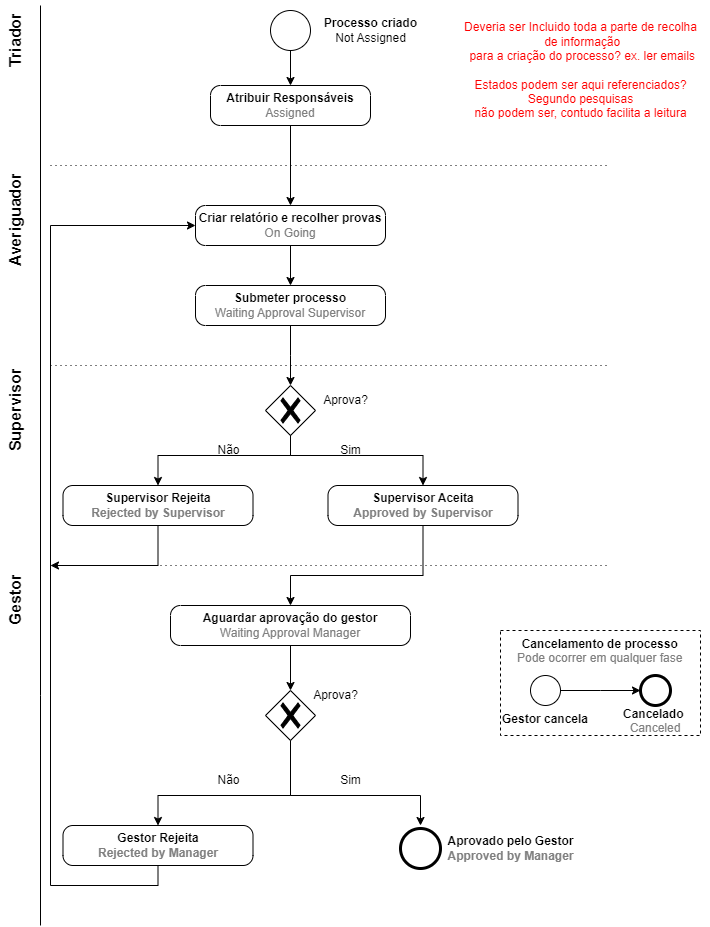
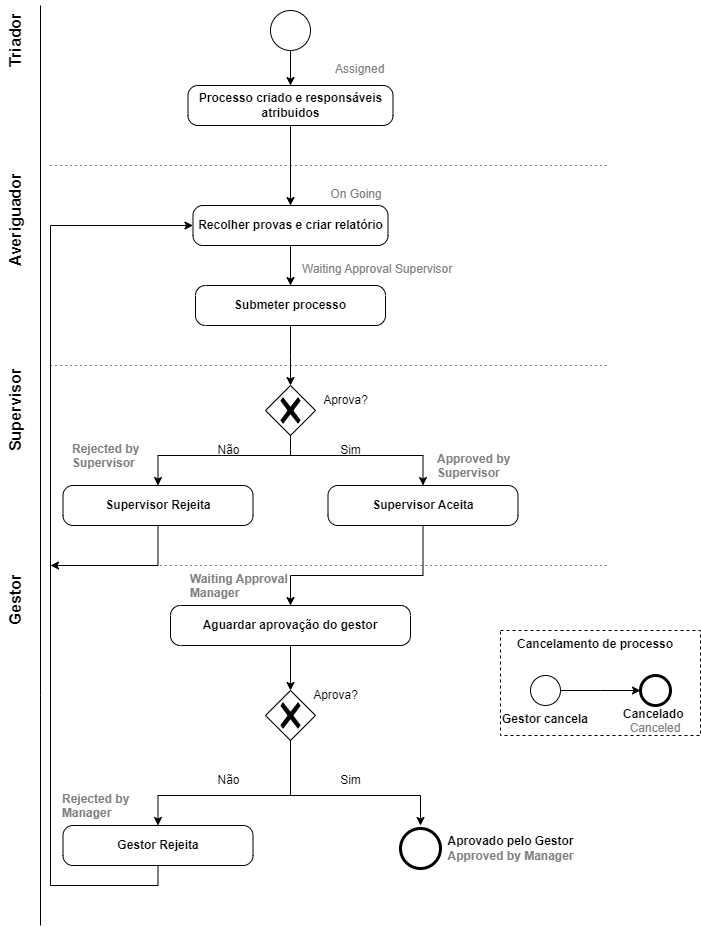
Correções dos textos e no BPMN.

diff --git a/Docs/relatorio-final/solucao.tex b/Docs/relatorio-final/solucao.tex
@@ -3,8 +3,8 @@
 %
 \chapter{Solu\c{c}\~{a}o Proposta} \label{cap:solucao}
 
-Este capítulo apresenta detalhadamente a arquitetura, o modelo de dados e os detalhes de implementação da solução tecnológica desenvolvida. 
-O conteúdo encontra-se estruturado em quatro secções principais: a Secção 2.1 descreve a arquitetura geral do sistema baseada num modelo \textit{client-server} em camadas; a Secção 2.2 detalha o modelo de dados conceptual (Entidade-Associação) e as regras de negócio automatizadas na base de dados; a Secção 2.3 aborda a componente de \textit{backend}, focando-se no desenvolvimento com \textit{Spring Boot} e nos mecanismos de segurança e controlo de acessos (\textit{RBAC}) com \textit{Spring Security}; por fim, a Secção 2.4 expõe a estrutura do servidor \textit{frontend} em \textit{React}, os seus componentes de proteção de rotas e as bibliotecas externas integradas.
+Neste capítulo apresenta-se detalhadamente a arquitetura, o modelo de dados e os detalhes de implementação da solução tecnológica desenvolvida. 
+O capítulo encontra-se estruturado em quatro secções principais: a Secção 2.1 descreve a arquitetura geral do sistema baseada num modelo \textit{client-server} em camadas; a Secção 2.2 detalha o modelo de dados (Entidade-Associação) e as regras de negócio automatizadas na base de dados; a Secção 2.3 aborda a componente de \textit{backend}, focando-se no desenvolvimento com \textit{Spring Boot} e nos mecanismos de segurança e controlo de acessos (\textit{RBAC}) com \textit{Spring Security}; por fim, a Secção 2.4 expõe a estrutura do servidor \textit{frontend} em \textit{React}, os seus componentes de proteção de rotas e as bibliotecas externas integradas.
 
 \section{Arquitetura}
 
@@ -21,7 +21,7 @@ Na Figura~\ref{fig:arquitetura} representa-se a arquitetura geral da aplicação
 
 
 
-De um modo geral, a arquitetura baseia-se na interação entre três grandes blocos: o \textit{frontend}, o \textit{backend} e a base de dados. Esta organização permite isolar as preocupações de cada componente, facilitando a evolução independente das diferentes partes do sistema.
+De um modo geral, a arquitetura baseia-se na interação entre três grandes componente: o \textit{frontend}, o \textit{backend} e a base de dados. Esta organização permite isolar as preocupações de cada componente, facilitando a evolução independente das diferentes partes do sistema.
 
 A comunicação entre os vários componentes é realizada através de uma \textit{API} baseada em serviços \textit{REST}, assegurando um modelo de interação padronizado e independente da tecnologia utilizada no \textit{frontend}. Adicionalmente, foram adotados mecanismos de segurança para controlo de acesso e autenticação de utilizadores, garantindo a proteção dos recursos da aplicação.
 
@@ -30,17 +30,32 @@ Esta abordagem arquitetural favorece a modularidade, escalabilidade e manutenibi
 
 \cleardoublepage
 \section{Modelo de dados}
+
+O modelo de dados constitui a base da aplicação, sendo responsável por garantir a persistência, integridade e consistência de toda a informação que circula no sistema. Para suportar o ecossistema de gestão de processos e o fluxo associado, foi desenhado um modelo relacional robusto, capaz de mapear não só os dados estruturais das entidades, mas também de espelhar as regras de negócio e restrições operacionais diretamente na camada de persistência.
+
+Com o objetivo de facilitar a análise e a compreensão da arquitetura de dados, a especificação do modelo foi segmentada em quatro grandes blocos funcionais, apresentados detalhadamente nas subsecções seguintes:
+\begin{itemize}
+    \item \textbf{Autenticação e Autorização:} focado na gestão de utilizadores, controlo de acessos baseado em papéis e ciclo de vida dos tokens;
+    \item \textbf{Gestão de Processos:} dedicado à entidade central do sistema (o processo), englobando o seu enquadramento e a máquina de estados que rege o seu ciclo de vida;
+    \item \textbf{Documentação e Provas:} responsável pelo armazenamento e associação de relatórios, provas e notas de auditoria interna;
+    \item \textbf{Relação do processo com o utilizador:} encarregue de modelar a afetação de peritos por áreas de especialidade e o registo imutável de atividades na plataforma.
+\end{itemize}
+
+Nas secções que se seguem, decompõe-se este ecossistema, culminando na apresentação do Modelo Entidade-Associação global e nos detalhes da sua implementação prática.
+
+
+
 \subsection{Autenticação}
 
 No que respeita ao conjunto de entidades responsável pela autenticação e autorização de utilizadores, existem cinco entidades principais: \textit{User}, \textit{AccessToken}, \textit{RefreshToken}, \textit{LoginToken} e \textit{Role}. O modelo conceptual e a estrutura destas componentes encontram-se ilustrados na Figura~\ref{fig:entidades_auth}.
 
 Relativamente à entidade \textit{User}, esta é composta por um identificador único (\textit{id}), um nome (\textit{name}), uma \textit{string} correspondente ao \textit{hash} da palavra-passe do utilizador (\textit{password validation}) e um indicador responsável por informar se o utilizador se encontra ativo (\textit{isActive}).
 
-No que concerne à entidade \textit{AccessToken}, esta é composta por um \textit{token}, uma data de expiração (\textit{expiration date}) e um papel ativo associado (\textit{active role}). O propósito fundamental do \textit{AccessToken} consiste em autenticar os pedidos do utilizador e, simultaneamente, identificar o papel específico (\textit{Role}) que este vai desempenhar durante aquela determinada sessão.
+No que concerne à entidade \textit{AccessToken}, esta é composta por um \textit{token}, uma data de expiração (\textit{expiration date}) e um papel ativo associado (\textit{active role}). O propósito fundamental do \textit{AccessToken} consiste em autenticar os pedidos do utilizador e, simultaneamente, identificar o papel específico (\textit{Role}) que este vai desempenhar durante uma determinada sessão.
 
-A entidade \textit{RefreshToken} apresenta uma estrutura idêntica à do \textit{AccessToken}. No entanto, o seu propósito específico consiste em permitir a obtenção de um novo \textit{AccessToken} assim que este expire, garantindo a continuidade da sessão sem obrigar o utilizador a realizar um novo processo de \textit{login}.
+A entidade \textit{RefreshToken} apresenta uma estrutura idêntica à do \textit{AccessToken}. No entanto, o seu propósito específico consiste em permitir a obtenção de um novo \textit{AccessToken} assim que este expire, garantindo a continuidade da sessão sem obrigar o utilizador a realizar um novo processo de autenticação.
 
-Relativamente ao \textit{LoginToken}, este apresenta uma estrutura semelhante à das entidades anteriores, distinguindo-se pelo facto de não possuir qualquer papel associado e de manter o atributo de data de criação (\textit{creation date}). Este atributo é fundamental para conseguir guardar o registo da última sessão do utilizador, permitindo à aplicação saber a última vez que este esteve \textit{online}. Adicionalmente, o \textit{LoginToken} serve exclusivamente para autenticar inicialmente o utilizador no sistema e permitir a verificação de todos os papéis (\textit{Roles}) que este tem disponíveis para assumir.
+Relativamente ao \textit{LoginToken}, este apresenta uma estrutura semelhante à das entidades anteriores, distinguindo-se pelo facto de não possuir qualquer papel associado e de manter o atributo de data de criação (\textit{creation date}). Este atributo é fundamental para conseguir armazenar o registo da última sessão do utilizador, permitindo à aplicação saber a última vez que este esteve \textit{online}. Adicionalmente, o \textit{LoginToken} serve exclusivamente para autenticar inicialmente o utilizador no sistema e permitir a verificação de todos os papéis (\textit{Roles}) que este tem disponíveis para assumir.
 
 A entidade \textit{Role} é constituída apenas por um nome (\textit{name}), o qual está estritamente limitado a cinco valores possíveis: \textit{Admin}, \textit{Triator}, \textit{Investigator}, \textit{Supervisor} e \textit{Manager}. Esta limitação a um conjunto fixo de valores funciona como uma restrição de domínio (semelhante a um tipo enumerado), garantindo a integridade dos dados ao impedir a criação de papéis arbitrários e assegurando que o controlo de acessos no sistema se restringe apenas às funções previstas pelas regras de negócio da aplicação.
 
@@ -58,7 +73,6 @@ No que concerne à relação entre \textit{User} e \textit{Role}, um utilizador 
   \end{center}
   \caption{Entidades de autenticação.}\label{fig:entidades_auth}
 \end{figure}
-\newpage
 
 \subsection{Gestão de processos}
 
@@ -163,9 +177,6 @@ Por último, no que concerne às relações associadas à entidade \textit{Activ
 \end{itemize}
 
 
-\newpage
-
-
 \subsection{Modelo completo}
 
 A abordagem descrita permitiu deslocar determinadas regras críticas de consistência para a própria base de dados, reduzindo a dependência exclusiva da camada aplicacional para a validação de estados e garantindo um comportamento mais robusto e consistente do sistema.
@@ -185,13 +196,13 @@ Como síntese de toda a estrutura relacional planeada, a Figura~\ref{fig:modelo_
 
 \subsection{Implementação}
 
-A componente de persistência de dados da aplicação foi implementada recorrendo ao \textit{PostgreSQL}, sendo responsável pelo armazenamento e gestão da informação associada aos diferentes módulos do sistema.
+A componente de persistência de dados da aplicação foi implementada recorrendo ao \textit{PostgreSQL}\cite{postgresql}.
 
 A organização da base de dados encontra-se dividida em diferentes ficheiros \texttt{.sql}, cada um com responsabilidades específicas no processo de configuração e inicialização do sistema. Esta separação permite uma melhor modularização da infraestrutura de dados, facilitando a manutenção, evolução e reutilização dos \textit{scripts}.
 
 Existe um ficheiro dedicado à criação da estrutura da base de dados, responsável pela definição das tabelas, relações, restrições de integridade e restantes objetos necessários ao modelo relacional. Para além deste, existem ficheiros específicos para o preenchimento inicial de tabelas contendo informação estática ou previamente conhecida, nomeadamente tabelas como \textit{State}, \textit{Role} e \textit{Area}. Este mecanismo permite garantir que determinados dados essenciais ao funcionamento do sistema se encontram disponíveis desde o momento da inicialização da aplicação.
 
-Adicionalmente, a base de dados integra um conjunto de \textit{triggers} (gatilhos) responsáveis por automatizar determinadas regras de negócio diretamente ao nível da persistência de dados. A opção pela utilização de \textit{triggers} fundamenta-se na sua natureza reativa e orientada a eventos. Ao contrário das funções ou procedimentos armazenados tradicionais, que exigem uma invocação explícita através de código na camada aplicacional, os \textit{triggers} reagem de forma automática e imediata aquando da ocorrência de um evento específico na base de dados (como a inserção, modificação ou remoção de registos). Esta execução transparente garante que as regras críticas de integridade e consistência da informação são salvaguardadas de forma autónoma diretamente no motor do \textit{PostgreSQL}, independentemente de qual o serviço ou operação que originou o pedido.
+Adicionalmente, a base de dados integra um conjunto de \textit{triggers} responsáveis por automatizar determinadas regras de negócio diretamente ao nível da persistência de dados. A opção pela utilização de \textit{triggers} fundamenta-se na sua natureza reativa e orientada a eventos. Ao contrário das funções ou procedimentos armazenados tradicionais, que exigem uma invocação explícita através de código na camada aplicacional, os \textit{triggers} reagem de forma automática e imediata aquando da ocorrência de um evento específico na base de dados (como a inserção, modificação ou remoção de registos). Esta execução transparente garante que as regras críticas de integridade e consistência da informação são salvaguardadas de forma autónoma diretamente no motor do \textit{PostgreSQL}, independentemente de qual o serviço ou operação que originou o pedido.
 
 Um dos \textit{triggers} implementados é responsável por fechar automaticamente o estado anterior de um processo quando um novo estado é inserido na tabela de estados do processo. Desta forma, sempre que ocorre uma mudança de estado, o estado anteriormente ativo passa automaticamente a possuir uma data de fim associada.
 
@@ -199,10 +210,9 @@ Para além do \textit{trigger} supracitado, também existe um \textit{trigger} r
 
 Foi igualmente implementado um \textit{trigger} responsável por atualizar automaticamente o campo \textit{updated\_at} sempre que um relatório é modificado. Esta abordagem permite manter informação temporal consistente relativamente às alterações efetuadas sobre os relatórios armazenados no sistema.
 
-Por fim, foi implementado um mecanismo automático associado à criação e atribuição de processos. Após a inserção de um novo processo, é criado automaticamente o estado inicial correspondente. Caso o processo possua simultaneamente um investigador e um supervisor associados, o estado definido é \textit{assigned}; caso contrário, o sistema atribui automaticamente o estado \textit{not\_assigned}. Adicionalmente, quando um processo passa posteriormente a possuir investigador e supervisor definidos, um \textit{trigger} deteta essa alteração e insere automaticamente o estado \textit{assigned}.
+Por fim, foi implementado um mecanismo automático associado à criação e atribuição de processos. Após a inserção de um novo processo, é criado automaticamente o estado inicial correspondente. Caso o processo possua simultaneamente um investigador e um supervisor associados, o estado definido é \textit{assigned}; caso contrário, o sistema atribui automaticamente o estado \textit{not\_assigned}. Adicionalmente, quando um investigador e um supervisor são atribuidos a um processo, o \textit{trigger} deteta essa alteração e insere automaticamente o estado \textit{assigned}.
 
 Esta abordagem permite deslocar determinadas regras críticas de consistência para a própria base de dados, reduzindo a dependência exclusiva da camada aplicacional para validação de estados e garantindo um comportamento mais robusto e consistente do sistema.
-\newpage
 
 
 
